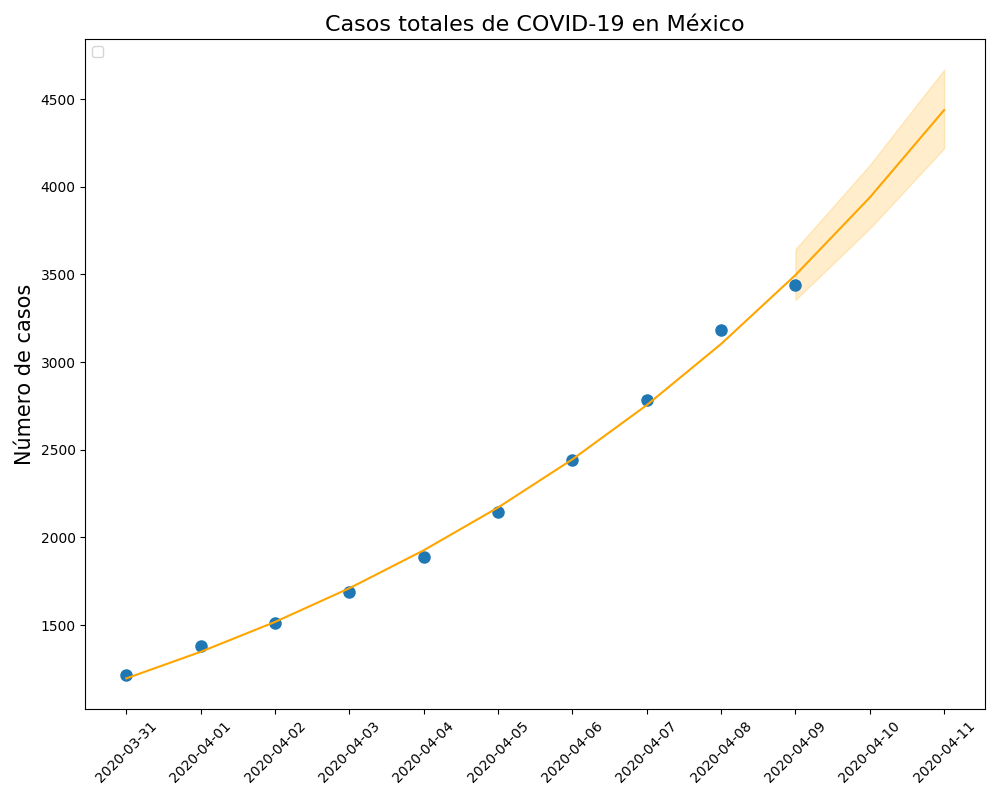
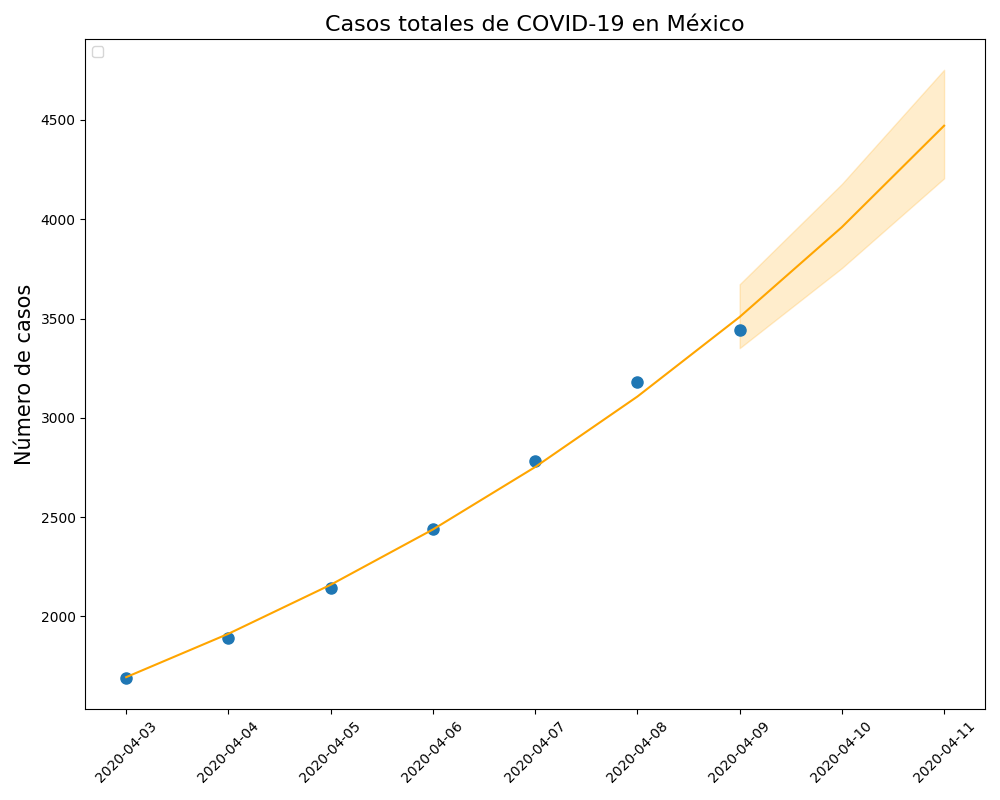
changed fit time window from 10 days to 1 week.

diff --git a/src/run_exponential_fit.py b/src/run_exponential_fit.py
@@ -41,7 +41,7 @@ if __name__ == "__main__":
     save_ = True
 
     # Fit time window
-    n_days = 10
+    n_days = 7
     total_cases_timeseries = national_timeseries(mex_confirmed).iloc[-n_days:,0]
 
     # Data preparation
